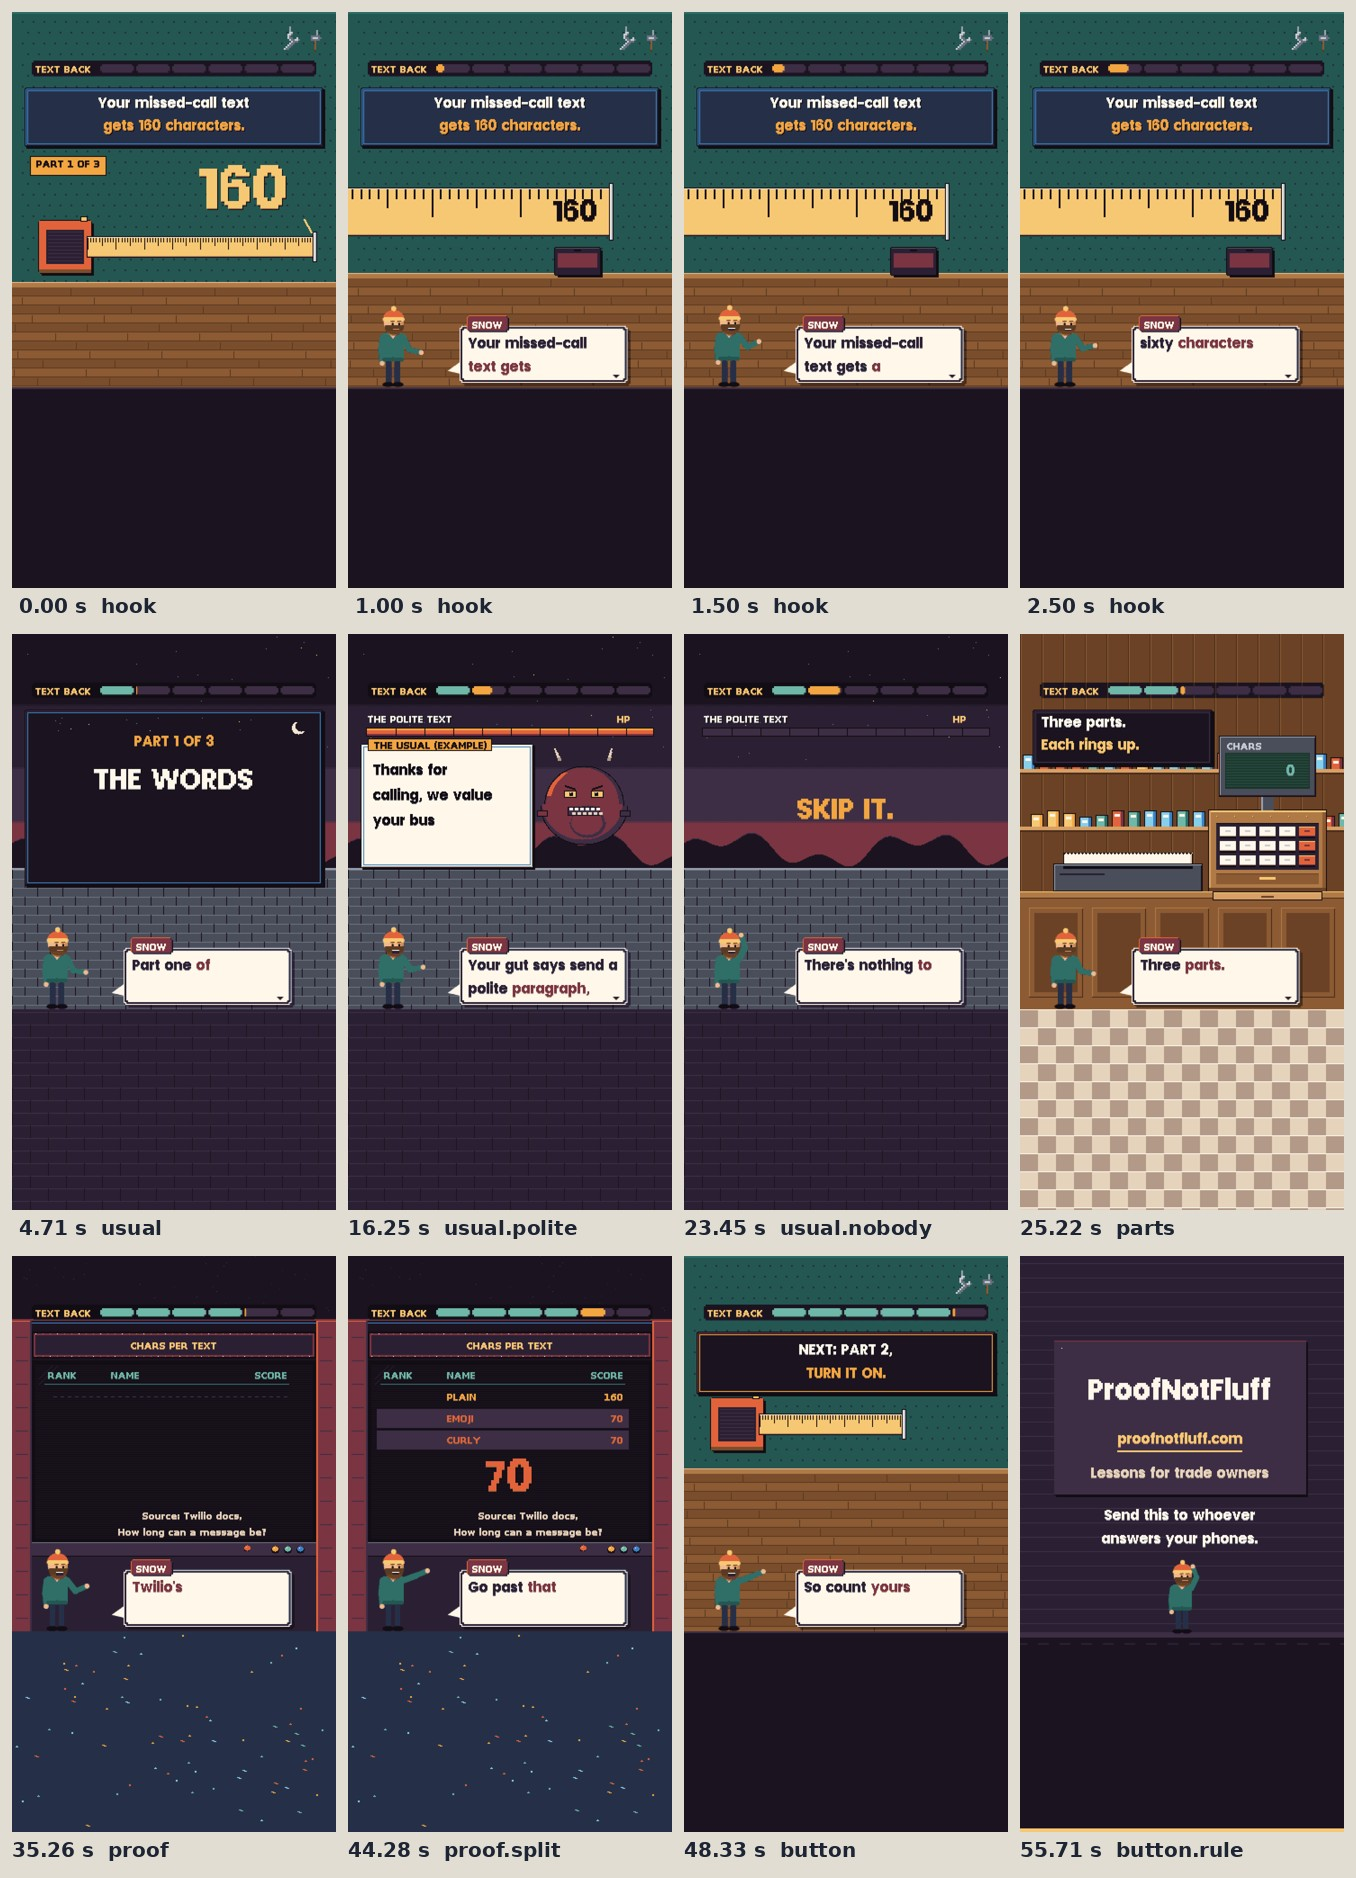
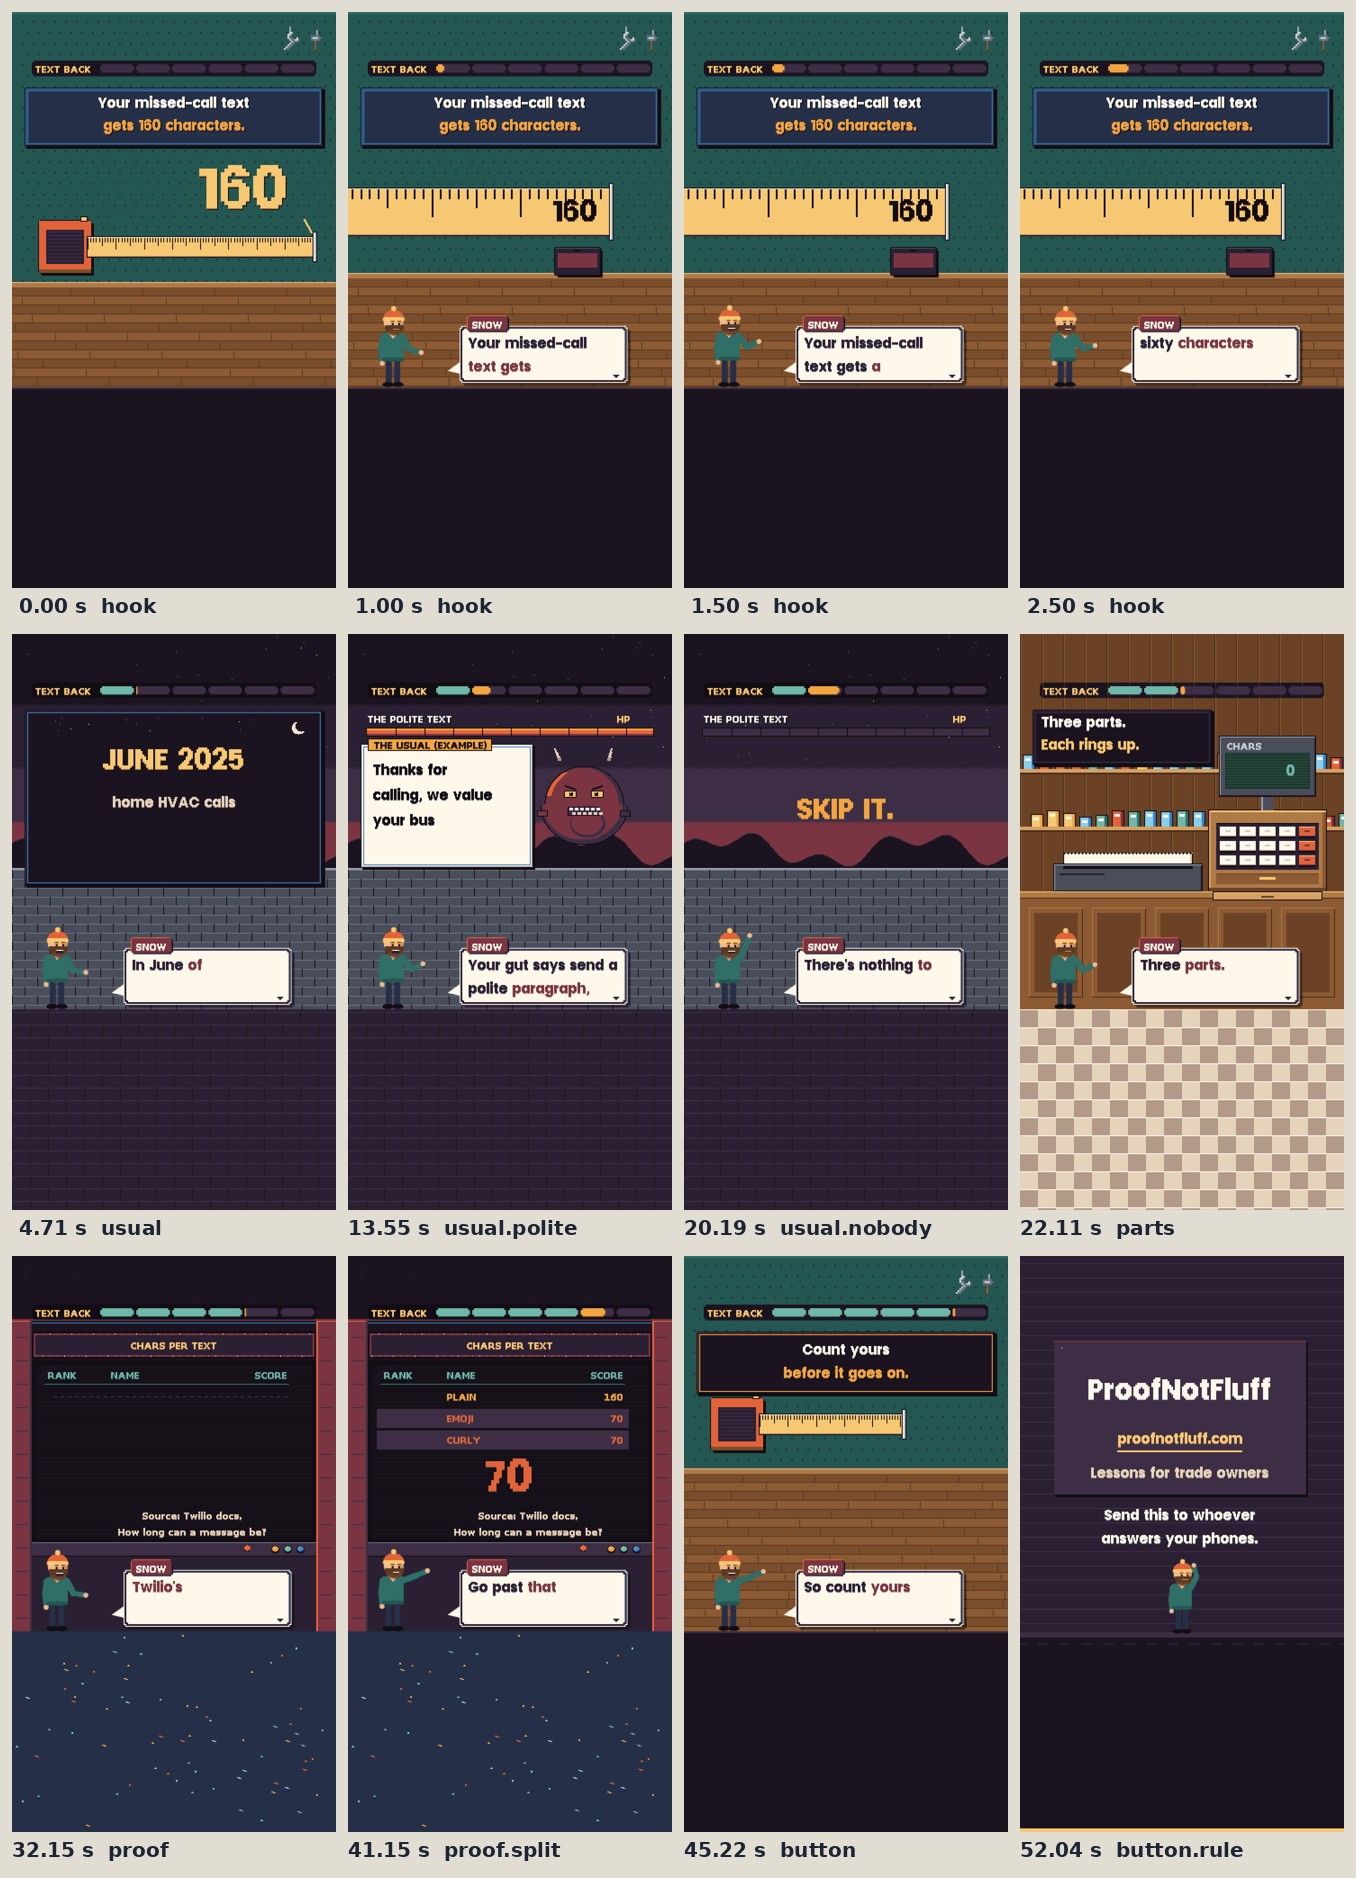
Studio: missed-call-text standalone round 0 gates (facts, render critic, golden PASS; buyer, design 4.57, facts-captions FAIL with fixes); no-series decision logged
Claude-Session: https://claude.ai/code/session_01XMn4eHXXBNFFFhZSS8Ea12

diff --git a/video/studio/videos/2026-11-12-missed-call-text/03_cues/cues.js b/video/studio/videos/2026-11-12-missed-call-text/03_cues/cues.js
@@ -1,1 +1,1 @@
-window.CUES = {"schema": "pnf.studio.cues.v1", "source": "whisper medium.en int8, re-spelled from script.md", "music": {"id": "rooms", "level": 0.16, "tune": "bounce"}, "duration": 56.007, "cues": [{"id": "hook", "level": 0, "quote": "Your missed-call text gets", "sfx": "pop", "shift": 0.0, "pin": null, "text": "Three shots. Cover, frame one, host and dialog box hidden: our own workbench in daylight, a tape measure pulled out across it, the blade's numbers big, the gold end hook resting on the 160 mark; one focal object, the hero number \"160\" above the tape; plate \"160 characters\" / \"to book the job.\", chip \"PART 1 OF 3\". By 0.8 s cut in close on the tape's hook at 160 (the blade's ticks big, a missed-call phone lying on the bench beside it); Snow and the dialog box come in. On \"book\" cut to the third shot: the phone close up, MISSED CALL on its screen, a blank text bubble with a cursor and \"0 / 160\" under it.", "t": 0.0, "word": 0, "end": 4.108}, {"id": "usual", "level": 0, "quote": "Part one of three,", "sfx": "whoosh", "shift": 0.0, "pin": null, "text": "The boss arena (r2; was street) under a night panel: ABOUT 1 IN 7 lands big on \"about\", seven phones pop in one a beat, the seventh rings red on \"after\" with \"came after hours\"; source tag \"Source: ServiceTitan, June 2025\" while it is said. On \"gut\" the panel lifts away: THE POLITE TEXT is the boss, our cream window over its menu types the usual paragraph. EXAMPLE tag.", "t": 4.108, "word": 12, "end": 24.621}, {"id": "usual.polite", "level": 1, "quote": "a polite paragraph,", "sfx": "blip", "shift": 0.0, "pin": null, "text": "The paragraph finishes: \"Thanks for calling, we value your business.\"", "t": 15.648, "word": 41, "end": 20.108}, {"id": "usual.no", "level": 1, "quote": "But there's no name", "sfx": "stamp", "shift": 0.0, "pin": null, "text": "NO NAME hits the boss and stamps on \"name\"; NO QUESTION hits and stamps on \"question\".", "t": 20.108, "word": 52, "end": 22.848}, {"id": "usual.nobody", "level": 1, "quote": "There's nothing to answer.", "sfx": "tick", "shift": 0.0, "pin": null, "text": "The last hit on \"answer\": the boss breaks into pixels and SKIP IT. stamps in; Snow waves.", "t": 22.848, "word": 61, "end": 24.621}, {"id": "parts", "level": 0, "quote": "Three parts. Who you", "sfx": "whoosh", "shift": 0.0, "pin": null, "text": "The register set: WHO 29 rings on \"Who\", SORRY 26 on \"Sorry\", ASK 47 before the cut, CHARS 102 prints as the total.", "t": 24.621, "word": 65, "end": 28.921}, {"id": "copy", "level": 0, "quote": "Then one question they", "sfx": "chime", "shift": 0.0, "pin": null, "text": "The text as an ITEM GET window (kit k.itemGet; the chime is its fanfare), EXAMPLE: \"Hi, this is Sam the plumber. Sorry I missed your call. What do you need fixed, and when works for you?\" Each part gets its slot colour bar as it is said (\"question\" lights the ask); the counter under it counts up to 102 / 160, the tape strip fills to 102 under the 160 mark.", "t": 28.921, "word": 75, "end": 34.659}, {"id": "proof", "level": 0, "quote": "Twilio's guide says one", "sfx": "whoosh", "shift": 0.0, "pin": null, "text": "The scores set, title CHARS PER TEXT: row PLAIN 160 lands on \"plain\". Source tag up top while it is said: \"Twilio docs: How long can a message be?\".", "t": 34.659, "word": 92, "end": 47.727}, {"id": "proof.emoji", "level": 1, "quote": "Add one emoji and", "sfx": "tick", "shift": 0.0, "pin": null, "text": "Row EMOJI 70 lands in red; row CURLY \" 70 on \"Curly\".", "t": 39.099, "word": 103, "end": 43.679}, {"id": "proof.split", "level": 1, "quote": "Go past that and", "sfx": "stamp", "shift": 0.0, "pin": null, "text": "Under the table: \"Sam's text plus an emoji:\" and \"2 PIECES, 2 BILLS\" stamps on \"piece\".", "t": 43.679, "word": 117, "end": 47.727}, {"id": "button", "level": 0, "quote": "So count yours before", "sfx": "whoosh", "shift": 0.0, "pin": null, "text": "Back on the workbench, the tape out to 160, the clean text's 102 marked on the blade in teal. Card: \"NEXT: PART 2, TURN IT ON.\"", "t": 47.727, "word": 128, "end": 56.007}, {"id": "button.rule", "level": 1, "quote": "Keep it plain, and", "sfx": "sting", "shift": 0.0, "pin": null, "text": "The rule lands in gold: \"Keep it plain. Under 160.\" Snow waves. Then the end card with the send line: \"Send this to whoever answers your phones.\"", "t": 50.747, "word": 137, "end": 56.007}]};
+window.CUES = {"schema": "pnf.studio.cues.v1", "source": "whisper medium.en int8, re-spelled from script.md", "music": {"id": "rooms", "level": 0.16, "tune": "bounce"}, "duration": 52.338, "cues": [{"id": "hook", "level": 0, "quote": "Your missed-call text gets", "sfx": "pop", "shift": 0.0, "pin": null, "text": "Three shots. Cover, frame one, host and dialog box hidden: our own workbench in daylight, a tape measure pulled out across it, the blade's numbers big, the gold end hook resting on the 160 mark; one focal object, the hero number \"160\" above the tape; plate \"160 characters\" / \"to book the job.\", chip \"MISSED-CALL TEXT\". By 0.8 s cut in close on the tape's hook at 160 (the blade's ticks big, a missed-call phone lying on the bench beside it); Snow and the dialog box come in. On \"book\" cut to the third shot: the phone close up, MISSED CALL on its screen, a blank text bubble with a cursor and \"0 / 160\" under it.", "t": 0.0, "word": 0, "end": 4.108}, {"id": "usual", "level": 0, "quote": "In June of last", "sfx": "whoosh", "shift": 0.0, "pin": null, "text": "The boss arena (r2; was street) under a night panel: ABOUT 1 IN 7 lands big on \"about\", seven phones pop in one a beat, the seventh rings red on \"after\" with \"came after hours\"; source tag \"Source: ServiceTitan, June 2025\" while it is said. On \"gut\" the panel lifts away: THE POLITE TEXT is the boss, our cream window over its menu types the usual paragraph. EXAMPLE tag.", "t": 4.108, "word": 12, "end": 21.512}, {"id": "usual.polite", "level": 1, "quote": "a polite paragraph,", "sfx": "blip", "shift": 0.0, "pin": null, "text": "The paragraph finishes: \"Thanks for calling, we value your business.\"", "t": 12.948, "word": 35, "end": 17.508}, {"id": "usual.no", "level": 1, "quote": "No name. No question.", "sfx": "stamp", "shift": 0.0, "pin": null, "text": "NO NAME hits the boss and stamps on \"name\"; NO QUESTION hits and stamps on \"question\".", "t": 17.508, "word": 46, "end": 19.588}, {"id": "usual.nobody", "level": 1, "quote": "There's nothing to answer.", "sfx": "tick", "shift": 0.0, "pin": null, "text": "The last hit on \"answer\": the boss breaks into pixels and SKIP IT. stamps in; Snow waves.", "t": 19.588, "word": 50, "end": 21.512}, {"id": "parts", "level": 0, "quote": "Three parts. Who you", "sfx": "whoosh", "shift": 0.0, "pin": null, "text": "The register set: WHO 29 rings on \"Who\", SORRY 26 on \"Sorry\", ASK 47 before the cut, CHARS 102 prints as the total.", "t": 21.512, "word": 54, "end": 25.792}, {"id": "copy", "level": 0, "quote": "Then one question they", "sfx": "chime", "shift": 0.0, "pin": null, "text": "The text as an ITEM GET window (kit k.itemGet; the chime is its fanfare), EXAMPLE: \"Hi, this is Sam the plumber. Sorry I missed your call. What do you need fixed, and when works for you?\" Each part gets its slot colour bar as it is said (\"question\" lights the ask); the counter under it counts up to 102 / 160, the tape strip fills to 102 under the 160 mark.", "t": 25.792, "word": 64, "end": 31.55}, {"id": "proof", "level": 0, "quote": "Twilio's guide says one", "sfx": "whoosh", "shift": 0.0, "pin": null, "text": "The scores set, title CHARS PER TEXT: row PLAIN 160 lands on \"plain\". Source tag up top while it is said: \"Twilio docs: How long can a message be?\".", "t": 31.55, "word": 81, "end": 44.618}, {"id": "proof.emoji", "level": 1, "quote": "Add one emoji and", "sfx": "tick", "shift": 0.0, "pin": null, "text": "Row EMOJI 70 lands in red; row CURLY \" 70 on \"Curly\".", "t": 35.99, "word": 92, "end": 40.55}, {"id": "proof.split", "level": 1, "quote": "Go past that and", "sfx": "stamp", "shift": 0.0, "pin": null, "text": "Under the table: \"Sam's text plus an emoji:\" and \"2 PIECES, 2 BILLS\" stamps on \"piece\".", "t": 40.55, "word": 106, "end": 44.618}, {"id": "button", "level": 0, "quote": "So count yours before", "sfx": "whoosh", "shift": 0.0, "pin": null, "text": "Back on the workbench, the tape out to 160, the clean text's 102 marked on the blade in teal. Card: \"Count yours / before it goes on.\"", "t": 44.618, "word": 117, "end": 52.338}, {"id": "button.rule", "level": 1, "quote": "Keep it plain, and", "sfx": "sting", "shift": 0.0, "pin": null, "text": "The rule lands in gold: \"Keep it plain. Under 160.\" Snow waves. Then the end card with the send line: \"Send this to whoever answers your phones.\"", "t": 46.938, "word": 125, "end": 52.338}]};

diff --git a/video/studio/videos/2026-11-12-missed-call-text/02_transcript/mouth.js b/video/studio/videos/2026-11-12-missed-call-text/02_transcript/mouth.js
@@ -1,1 +1,1 @@
[2 lines of base64/hex data omitted]

diff --git a/coo/DECISIONS-2026-10-31.md b/coo/DECISIONS-2026-10-31.md
@@ -28,3 +28,7 @@
 ## lemo-opuscar (live chat, 4:28 pm)
 - [stated] 4:28 pm: "If this could help us step up our game, let's do it." (lemo-opuscar, a toolbox of film styles made in code)
 - Read at bebbbe1 (MIT). Adapted, not installed: its pixel RPG craft and director rules went into _shared/standard.md (M6 read time, M7 one native move) and IMPROVE "The bar first" 00a-2 and 00a-4 to 00a-7; notes in video/studio/research/opuscar-2026-10-31.md.
+
+## No series (live chat, 7:29 pm)
+- [stated] 7:29 pm: "I need help here - we probably shouldn't do multi part videos if we are not organized to do it"
+- count-before-ai posted 7:19 pm as part 1 of 2 (its caption promises part 2), so part 2 is owed and first in research/IDEAS.md "Owed first"; no other series (_shared/formats.md). missed-call-text made standalone (clinic): re-voiced, qa PASS; gates round 0: facts, render critic, golden PASS; buyer FAIL (no money stake in the hook), design FAIL 4.57, facts-captions FAIL (YouTube source line). Fix list in its reviews; the 9:33 pm run finishes it first. Variety fixes: held lessons no longer count in the line, posted lessons ordered by post time.
